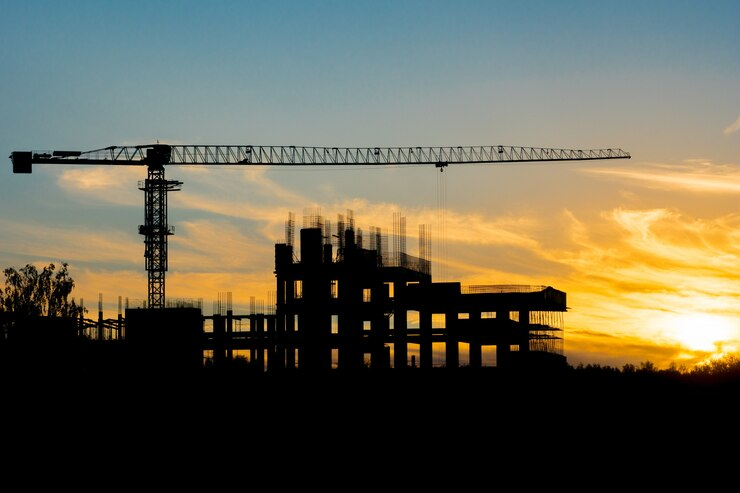
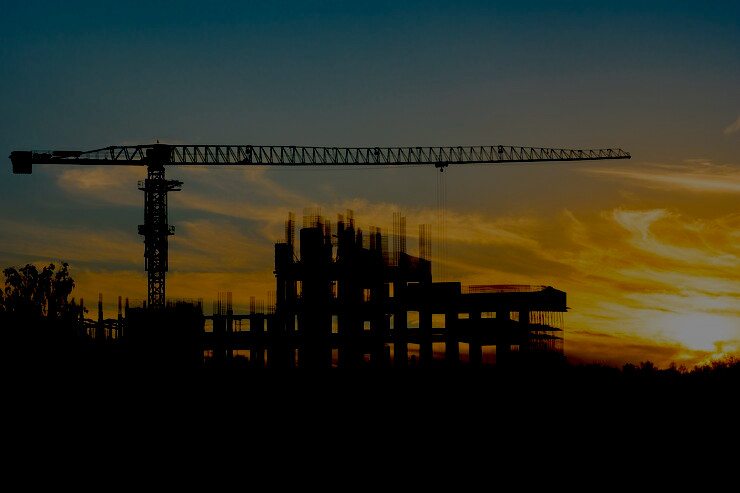
added contact section

diff --git a/src/pages/home.css b/src/pages/home.css
@@ -94,10 +94,11 @@
 /* =============== contacy section */
 
 #contact{
-    /* background: url('/public/images/footerImage.jpg'); */
-    background: black;
+    background: url('/public/images/footerImage.jpg');
+    /* background: black; */
     background-repeat: no-repeat;
-    background-size: contain;
+    background-size: cover;
+    background-position-y: 40%;
     padding: 4px;
     color: white;
 }
@@ -111,11 +112,8 @@
     z-index: 100000;
     background: linear-gradient(180deg, transparent, black);
 }
+
 /* Contact section */
-/* #contact .contact-section-container{
-    z-index: 100000;
-    background-color: black;
-} */
 
 /* Les sections gauches et droites de la section #contact */
 .contact-container > *{
